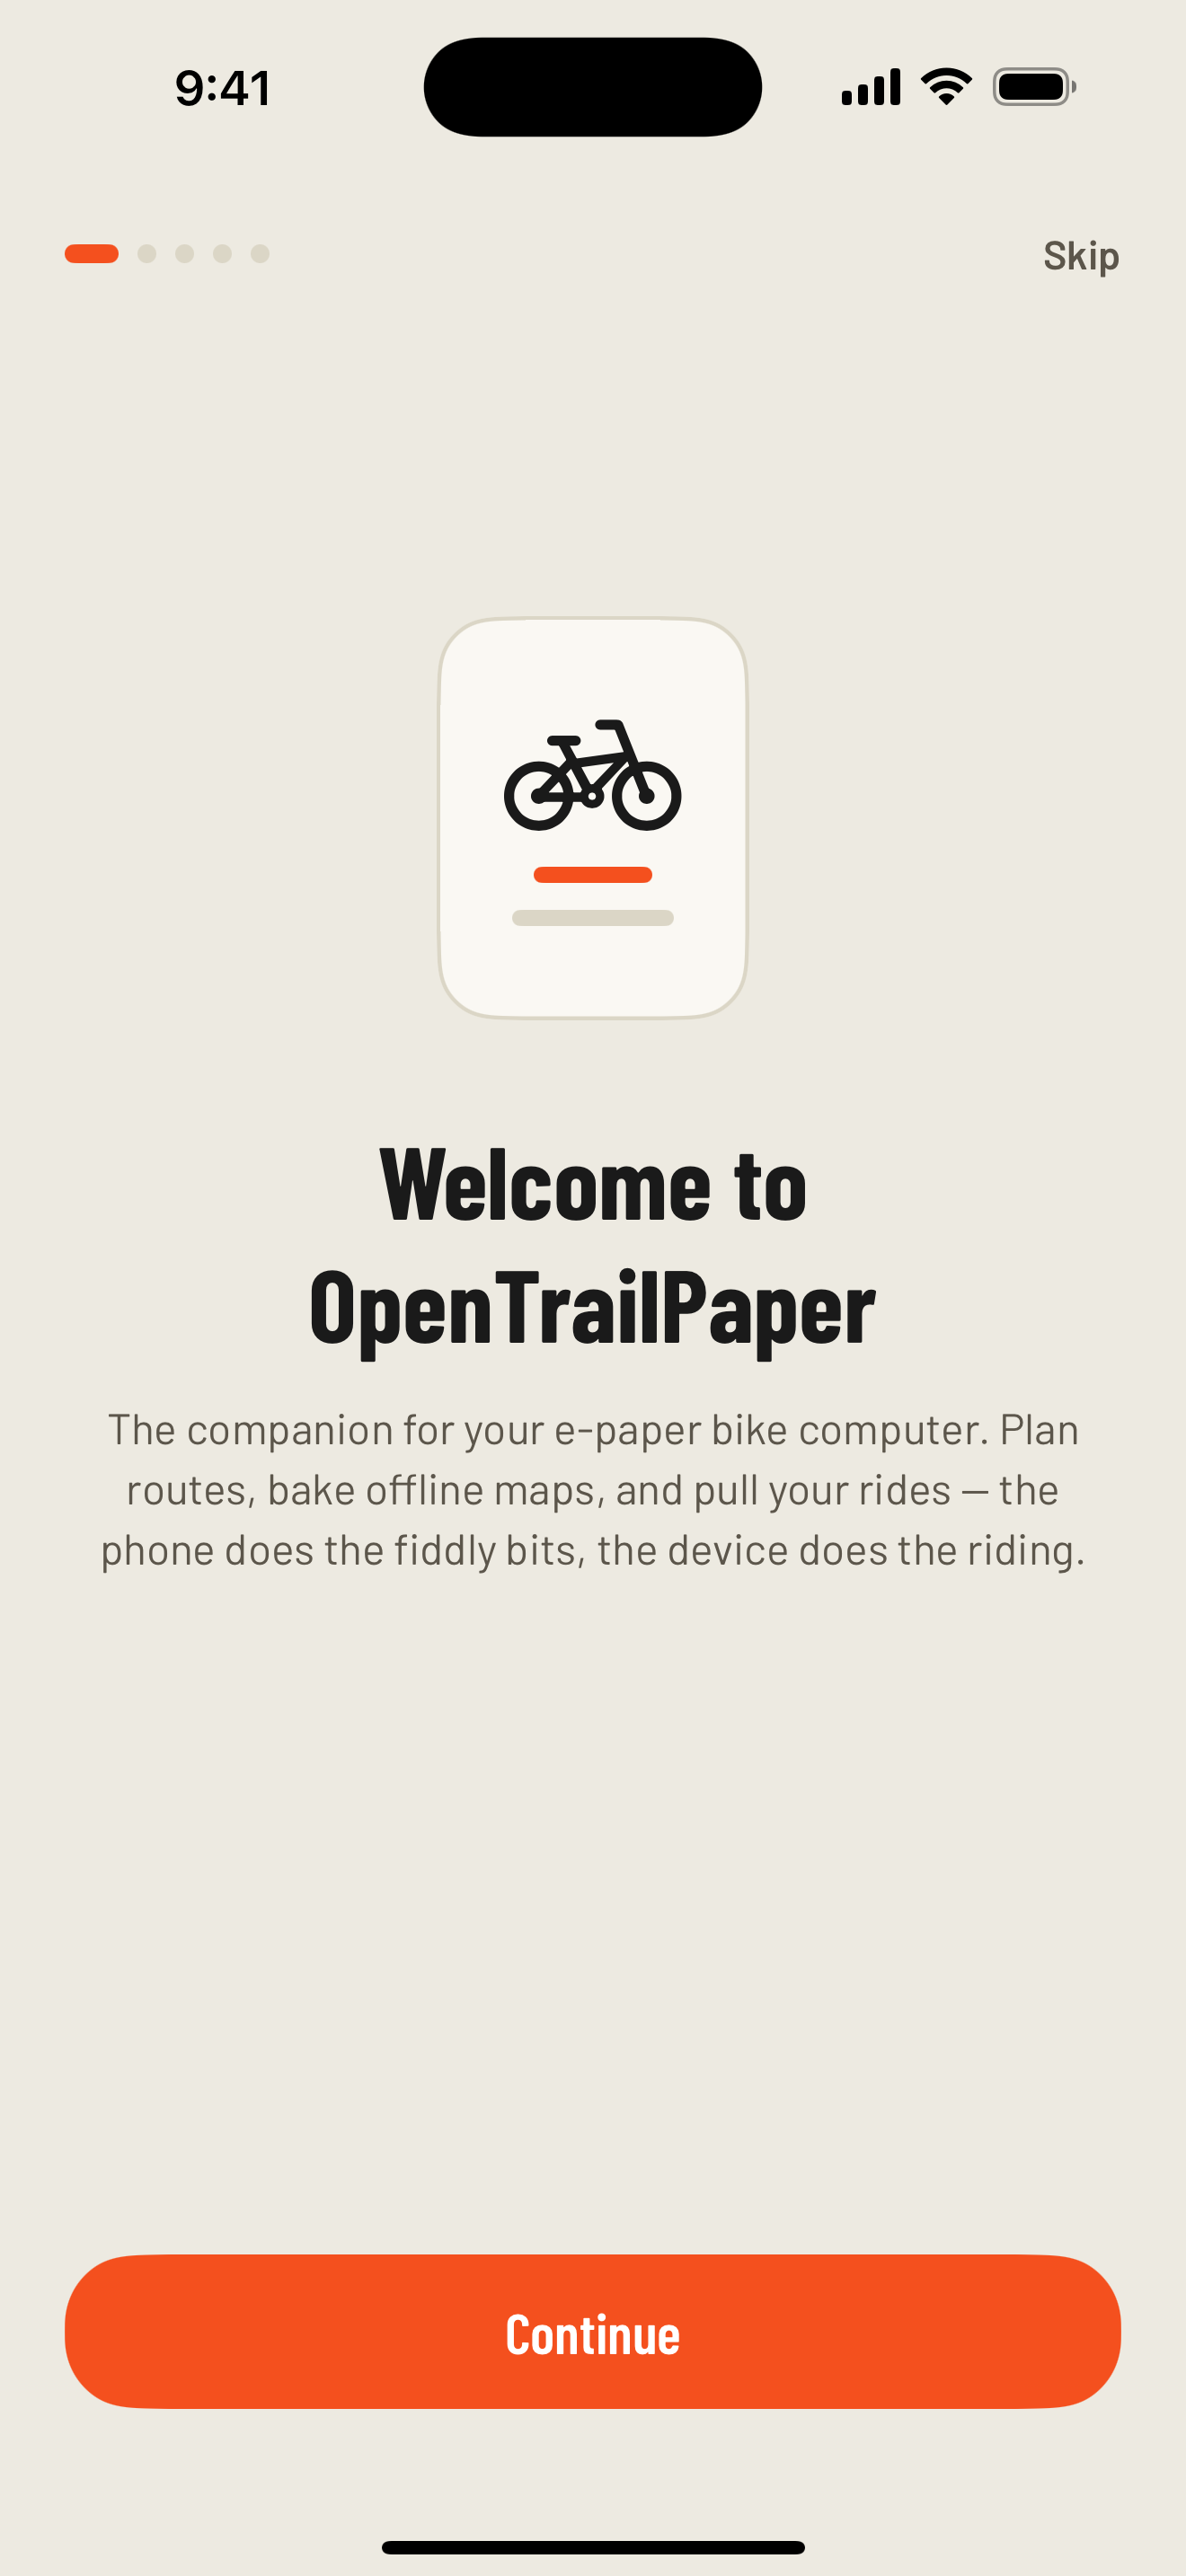
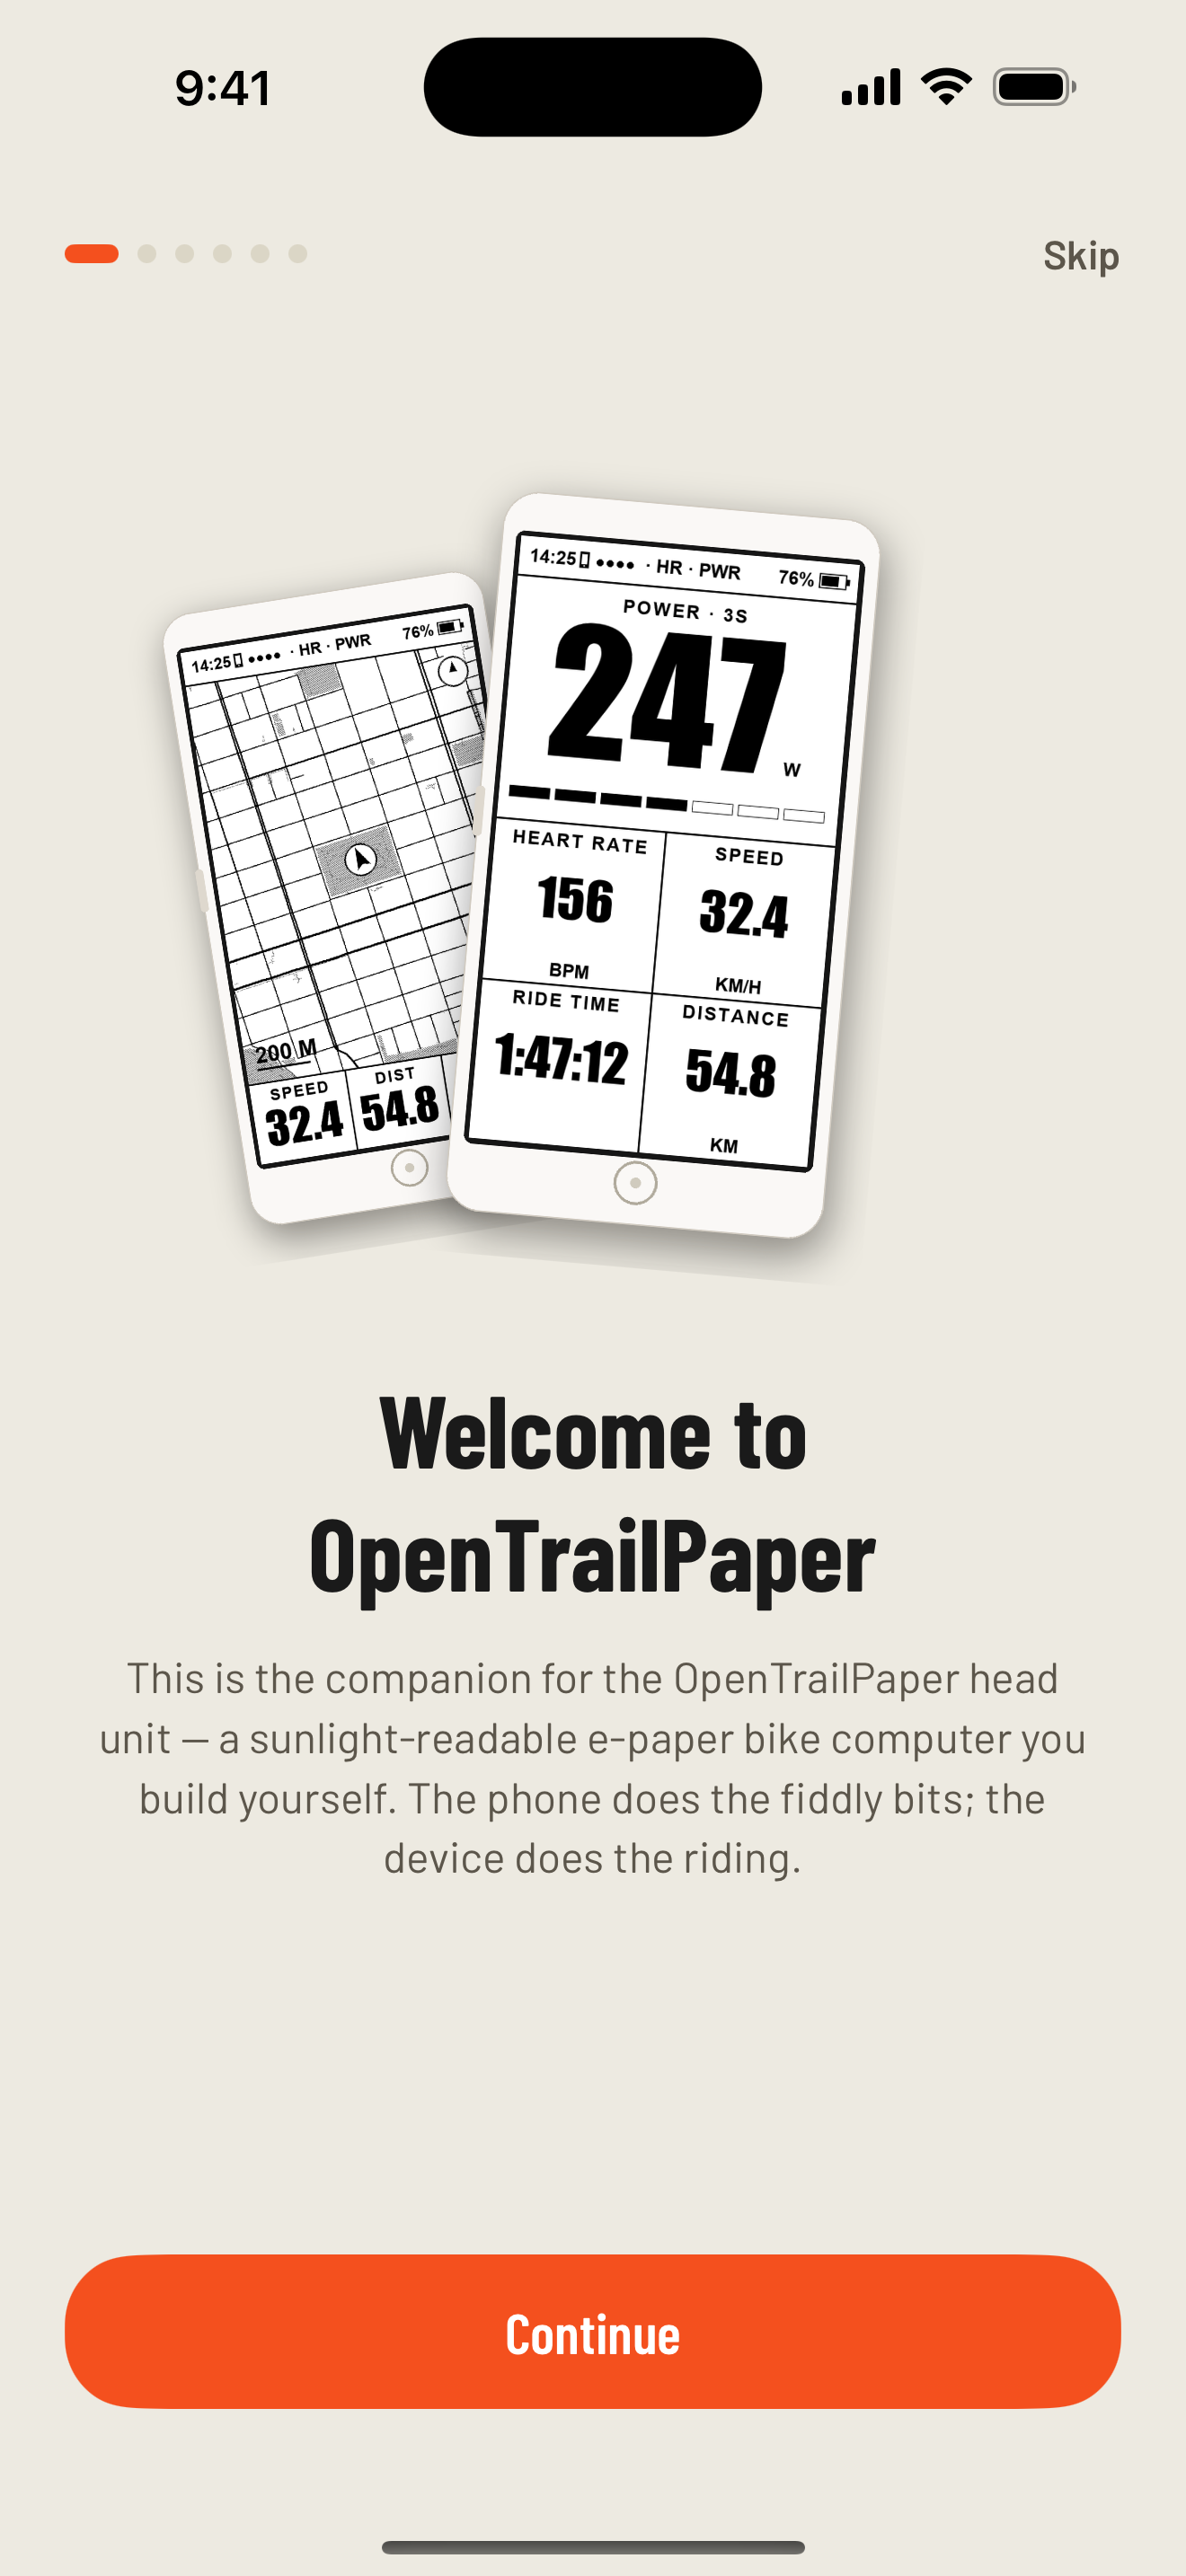
Onboarding: show the head unit on the welcome screen
Replace the abstract drawn glyph with real device mockups (white body +
e-paper dashboard and map screens) so the first screen makes it obvious the
app is a companion for the OpenTrailPaper e-paper bike computer. Adds
DeviceDashboard/DeviceMap image assets rendered from the actual firmware
screens.

Claude-Session: https://claude.ai/code/session_01G281deiKDWJhag8WQ3YMRV

Changed region(s): [[0.0932, 0.1862, 0.9008, 0.7448], [0.3106, 0.962, 0.6833, 0.993], [0.8386, 0.5275, 0.9008, 0.6206]]

diff --git a/companion-ios/Sources/OnboardingView.swift b/companion-ios/Sources/OnboardingView.swift
@@ -103,10 +103,28 @@ struct OnboardingView: View {
 
     private var welcome: some View {
         page(
-            art: AnyView(deviceGlyph),
+            art: AnyView(deviceHero),
             title: "Welcome to OpenTrailPaper",
-            body: "The companion for your e-paper bike computer. Plan routes, bake offline maps, and pull your rides — the phone does the fiddly bits, the device does the riding."
+            body: "This is the companion for the OpenTrailPaper head unit — a sunlight-readable e-paper bike computer you build yourself. The phone does the fiddly bits; the device does the riding."
         )
+    }
+
+    // A product shot of the head unit so it's obvious from the first screen
+    // what this app pairs with — the map screen tucked behind the dashboard.
+    private var deviceHero: some View {
+        ZStack {
+            Image("DeviceMap")
+                .resizable().scaledToFit()
+                .frame(width: 148)
+                .rotationEffect(.degrees(-9))
+                .offset(x: -84, y: 12)
+            Image("DeviceDashboard")
+                .resizable().scaledToFit()
+                .frame(width: 182)
+                .rotationEffect(.degrees(5))
+                .offset(x: 26)
+        }
+        .frame(height: 300)
     }
 
     private var overview: some View {
@@ -266,24 +284,6 @@ struct OnboardingView: View {
             Image(systemName: symbol)
                 .font(.system(size: 56, weight: .semibold))
                 .foregroundStyle(tint)
-        }
-    }
-
-    // A little cream "device" nodding to the head unit.
-    private var deviceGlyph: some View {
-        ZStack {
-            RoundedRectangle(cornerRadius: 22, style: .continuous)
-                .fill(Palette.surface)
-                .overlay(RoundedRectangle(cornerRadius: 22, style: .continuous)
-                    .strokeBorder(Palette.hairline, lineWidth: 1.5))
-                .frame(width: 116, height: 150)
-            VStack(spacing: 10) {
-                Image(systemName: "bicycle")
-                    .font(.system(size: 40, weight: .semibold))
-                    .foregroundStyle(Palette.ink)
-                Capsule().fill(Palette.accent).frame(width: 44, height: 6)
-                Capsule().fill(Palette.hairline).frame(width: 60, height: 6)
-            }
         }
     }
 